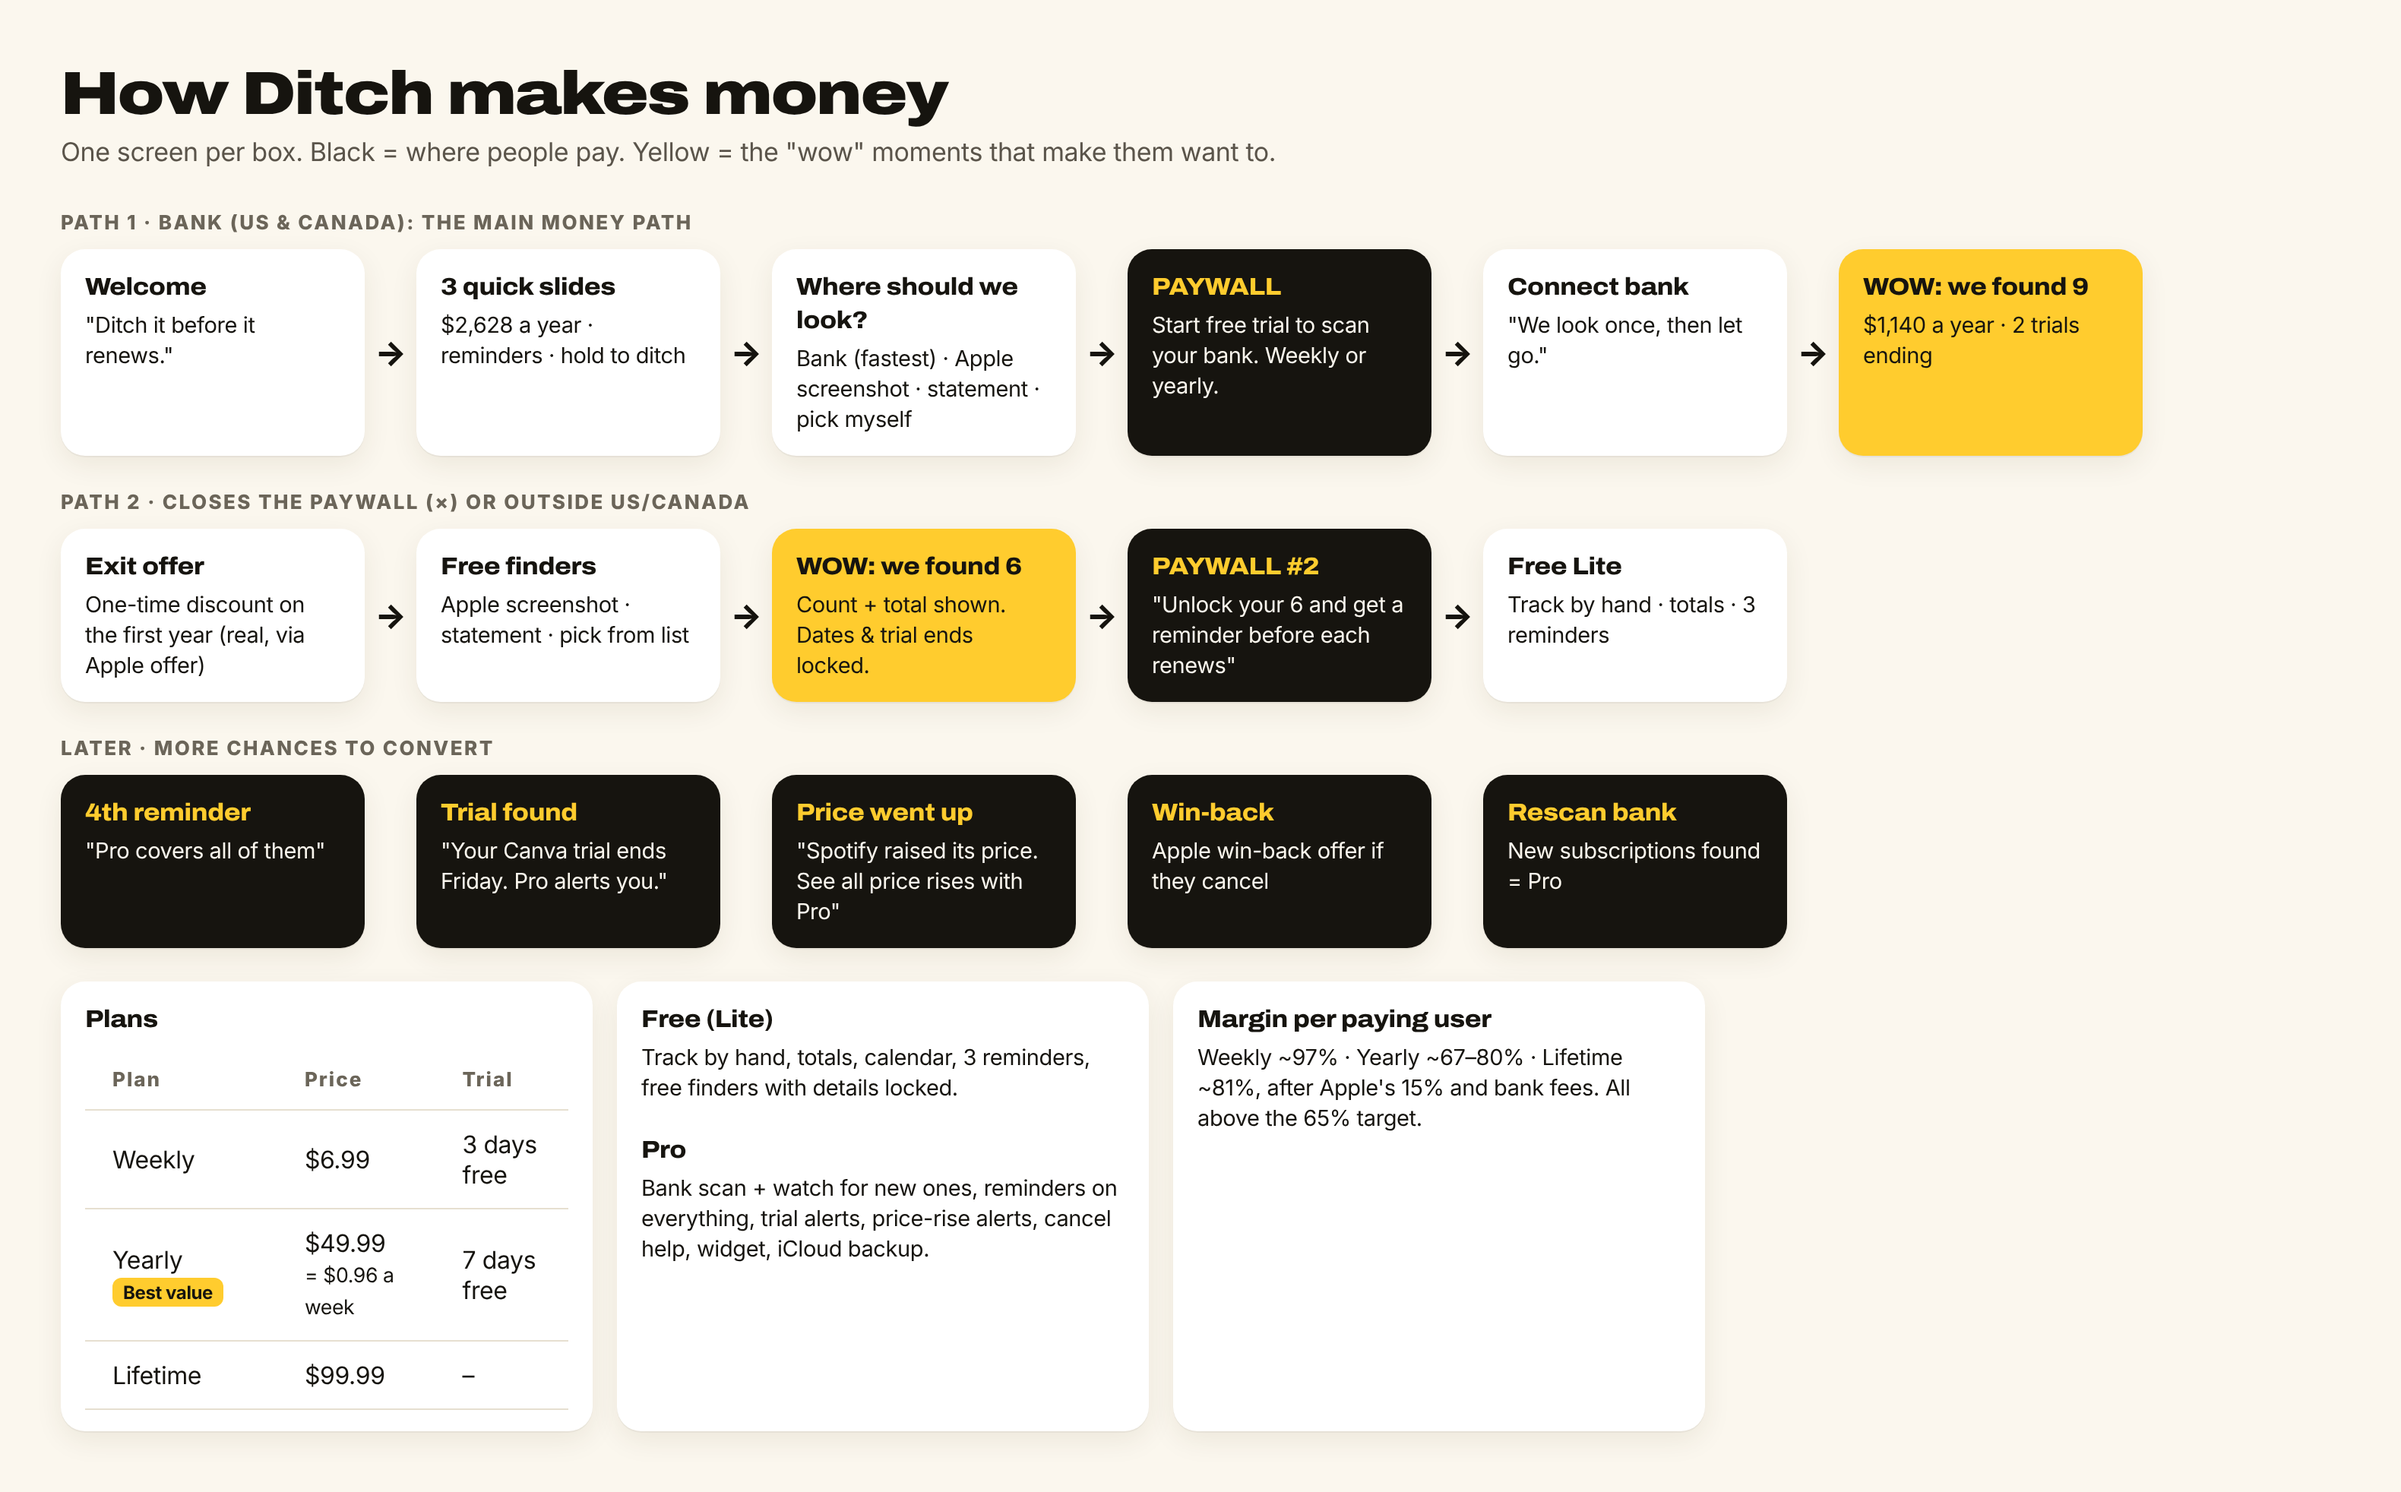
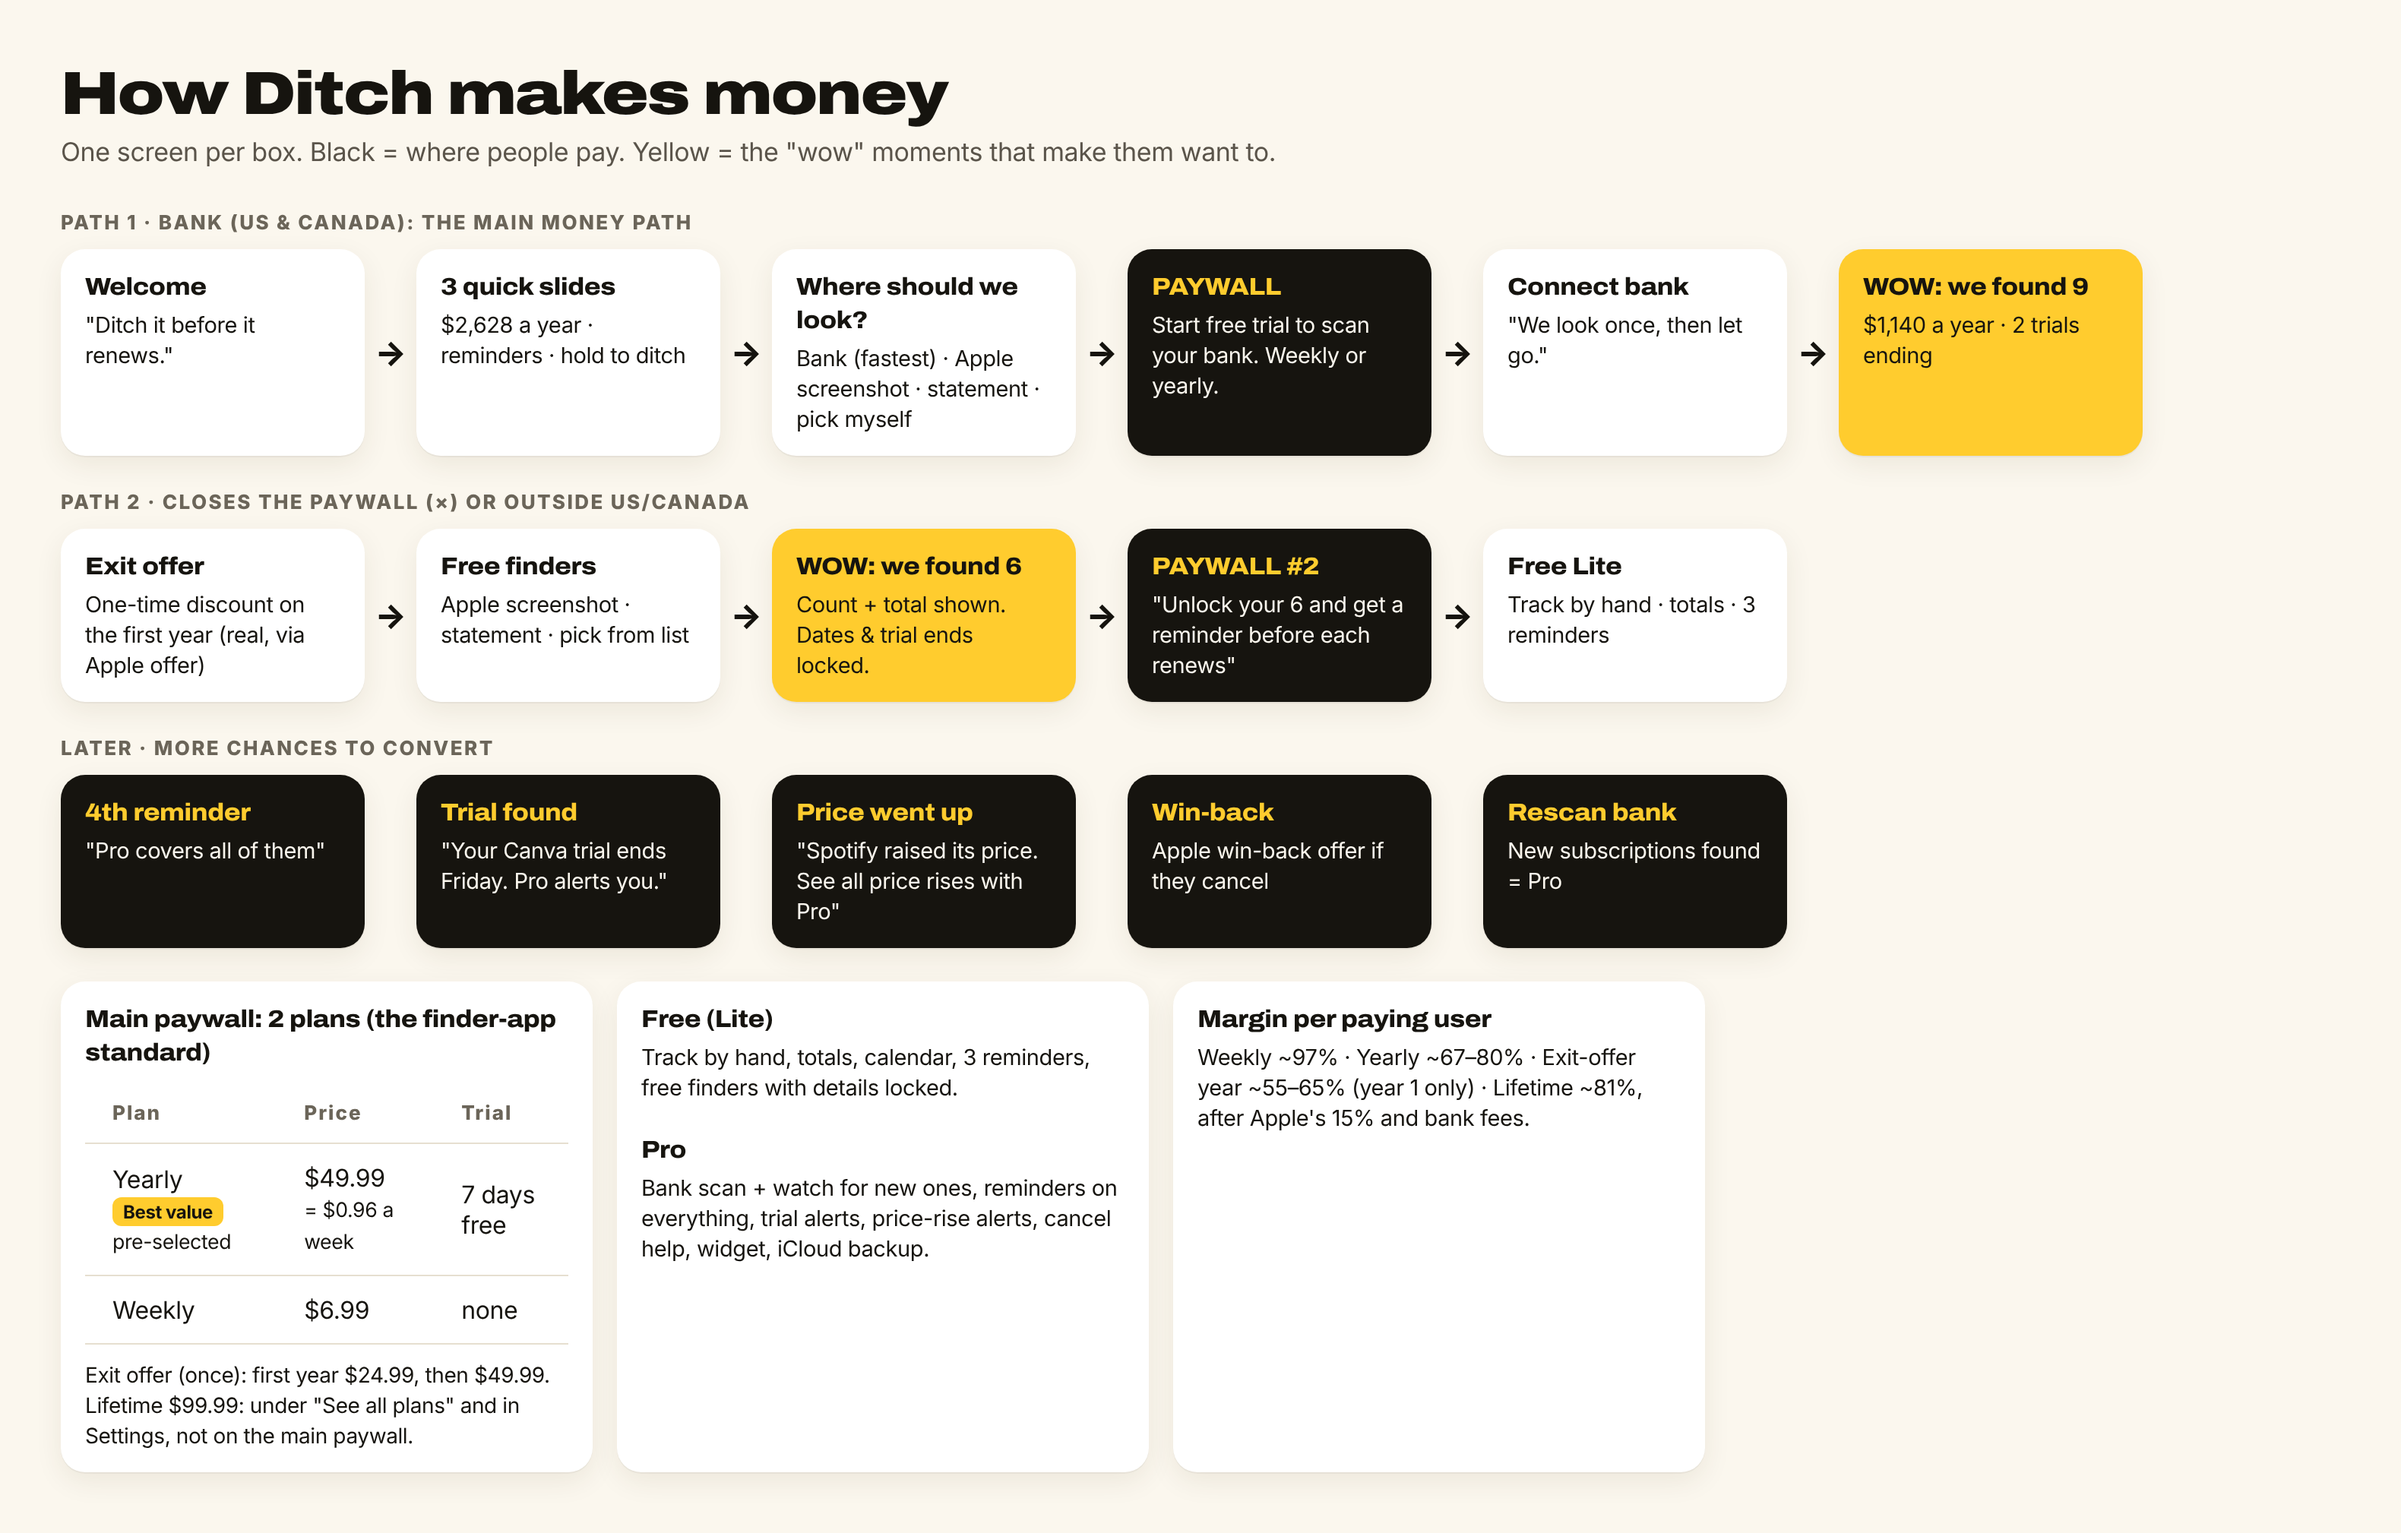
Model audit: 2-plan main paywall (yearly w/ trial + weekly), exit offer, lifetime under all plans; no monthly
Claude-Session: https://claude.ai/code/session_01Q8GFjWCZXwnj2nAcxjTkxh

diff --git a/design/model/model.html b/design/model/model.html
@@ -44,14 +44,14 @@ table{border-collapse:collapse;margin-top:8px;font-size:16px}td,th{padding:12px 
 </div>
 
 <div class="money">
- <div class="box"><b>Plans</b>
+ <div class="box"><b>Main paywall: 2 plans (the finder-app standard)</b>
   <table>
    <tr><th>Plan</th><th>Price</th><th>Trial</th></tr>
-   <tr><td>Weekly</td><td>$6.99</td><td>3 days free</td></tr>
-   <tr><td>Yearly <span class="tag">Best value</span></td><td>$49.99<br><small>= $0.96 a week</small></td><td>7 days free</td></tr>
-   <tr><td>Lifetime</td><td>$99.99</td><td>–</td></tr>
-  </table></div>
+   <tr><td>Yearly <span class="tag">Best value</span><br><small>pre-selected</small></td><td>$49.99<br><small>= $0.96 a week</small></td><td>7 days free</td></tr>
+   <tr><td>Weekly</td><td>$6.99</td><td>none</td></tr>
+  </table>
+  <p style="font-size:14px;margin:10px 0 0">Exit offer (once): first year $24.99, then $49.99.<br>Lifetime $99.99: under "See all plans" and in Settings, not on the main paywall.</p></div>
  <div class="box"><b>Free (Lite)</b>Track by hand, totals, calendar, 3 reminders, free finders with details locked.<br><br><b>Pro</b>Bank scan + watch for new ones, reminders on everything, trial alerts, price-rise alerts, cancel help, widget, iCloud backup.</div>
- <div class="box"><b>Margin per paying user</b>Weekly ~97% · Yearly ~67–80% · Lifetime ~81%, after Apple's 15% and bank fees. All above the 65% target.</div>
+ <div class="box"><b>Margin per paying user</b>Weekly ~97% · Yearly ~67–80% · Exit-offer year ~55–65% (year 1 only) · Lifetime ~81%, after Apple's 15% and bank fees.</div>
 </div>
 </body></html>

diff --git a/docs/DECISIONS.md b/docs/DECISIONS.md
@@ -70,7 +70,7 @@ The source of truth for Ditch. Copied from `jjman2321/MMTEST` (`docs/ditch/DECIS
 | 63 | Find my subscriptions is the launch moat (owner, Nov 16) | Pricing debate: manual trackers earn ~$0.73–0.79 per download whatever the free limit; the top earners sell "we find your subscriptions". So v1 launches with honest, on-phone finding: Apple subscriptions screenshot (with trials), Apple Card Recurring and other subscription-list screenshots, statement CSV/OFX (then PDF), the where-subs-hide checklist, all ending in a check-and-confirm list. Free once in onboarding (#34), then Pro. No bank sync at launch (keeps "Data Not Collected"; v3 paid add-on at most). Prices stay $29.99/yr · $4.99/mo · $49.99 lifetime; free tier unchanged for now. Research: `docs/research/find-subs-2026-11-16.md`. Engine: `src/import/`. Mockups: `design/find-subs/`. | 2026-11-16 |
 | 64 | v1 launches with Plaid bank scan (owner, Nov 18: "ok i want v1 with plaid"; "no need to mention plaid in ui") | **Ditch's own screens never name Plaid** (Plaid's own sign-in screens still show its name; the privacy policy names it). Replaces the "no bank sync at launch" part of #63 and the "no backend, no bank link" stack rule. **US/Canada banks via Plaid** (Stripe Financial Connections as fallback if Plaid refuses an Egypt-based founder's US LLC). Buy **Transactions only**; Ditch's own repeat detector (`src/import/statement.ts`) finds the subscriptions on the phone. Default flow: **connect → scan → disconnect** (`/item/remove`), so no ongoing per-bank fee and no stored transactions. Small backend: a new Supabase project with Edge Functions (link token, token exchange, transactions pull, remove, StoreKit receipt check, Plaid webhooks); the access token is encrypted and deleted after the scan. **Privacy label changes** from "Data Not Collected" to "Data Linked to You: Financial Info" (bank scan users); privacy policy and the "never claim" list get updated (still never "we cancel for you"). Outside US/Canada: the on-phone finder (screenshots, statements). Still open (owner): the find-results paywall and lock (#11, #16/#34, #24) and the lifetime price. Research: `docs/research/launch-vs-autofind-2026-11-18.md`, `finder-apps-2026-11-18.md`. Plan: `docs/plans/plaid-v1.md`. | 2026-11-18 |
 | 65 | Lifetime goes to $89.99 (owner, Nov 18: "add lifetime but like 89.99") | Anchors Yearly ($29.99, ~3×). Lifetime covers Pro features but **not ongoing bank sync** (costs money every month); it includes one bank scan a year. Replaces the $49.99 in #12. | 2026-11-18 |
-| 66 | Monetization first, aggressive but legal (owner, Nov 18: "number one thing we want is monetization… we'll use legal secrets… use psychology") | Replaces the honest-paywall limits in #29, #11, #24 and CLAUDE.md rule 4 where they conflict. **Model** (`design/model/model.png`): bank scan unlocked by starting a trial (paywall before the bank connects); × leads to a one-time first-year offer, then free finders with **dates and trial ends locked** and a second paywall after the reveal; more paywalls later (4th reminder, trial found, price rise, rescan, Apple win-back). **Plans:** Weekly $6.99 with a 3-day trial, Yearly $49.99 with a 7-day trial ("$0.96 a week", "Best value"), Lifetime $99.99. Monthly optional ($9.99). **Allowed:** weekly plans, per-week framing, anchoring and decoys, a "Best value"/"Most popular" badge, locked/blurred results, exit offers via Apple offers, trial timelines, loss-aversion copy, real time-limited offers. **Still not allowed (law or App Review):** fake timers or fake "was" prices, fake reviews or ratings, hidden or unclear price and renewal terms, trial toggles, hard-to-cancel flows, "we cancel for you" claims we can't back. | 2026-11-18 |
+| 66 | Monetization first, aggressive but legal (owner, Nov 18: "number one thing we want is monetization… we'll use legal secrets… use psychology") | Replaces the honest-paywall limits in #29, #11, #24 and CLAUDE.md rule 4 where they conflict. **Model** (`design/model/model.png`): bank scan unlocked by starting a trial (paywall before the bank connects); × leads to a one-time first-year offer, then free finders with **dates and trial ends locked** and a second paywall after the reveal; more paywalls later (4th reminder, trial found, price rise, rescan, Apple win-back). **Plans (audited Nov 18 against the finder apps):** the main paywall shows 2 plans, Yearly $49.99 with a 7-day trial, pre-selected ("$0.96 a week", "Best value"), and Weekly $6.99 with no trial. A one-time exit offer: first year $24.99, then $49.99 (Apple introductory offer). Lifetime $99.99 sits under "See all plans" and in Settings. No monthly. **Allowed:** weekly plans, per-week framing, anchoring and decoys, a "Best value"/"Most popular" badge, locked/blurred results, exit offers via Apple offers, trial timelines, loss-aversion copy, real time-limited offers. **Still not allowed (law or App Review):** fake timers or fake "was" prices, fake reviews or ratings, hidden or unclear price and renewal terms, trial toggles, hard-to-cancel flows, "we cancel for you" claims we can't back. | 2026-11-18 |
 | 13 | Rewards | **No streaks, badges or points.** Reward real results, never app opens. Allowed: money you're no longer paying ("You're saving $431 a year"; never "saved" or "kept", since Ditch can't see the bank), finishing setup ("Reminders 2 of 3 set"), one celebration per ditch, milestones tied to real money ("Saving $500 a year"). If we ever want a streak-like hook: "months with no surprise charges", which doesn't need the app to be opened. Why: Ditch succeeds when people open it rarely and save money; streaks turn into nagging (Tim Gabe gamification research, `docs/research/tim-gabe-notes.md`). | 2026-11-09 |
 
 ## Roadmap
